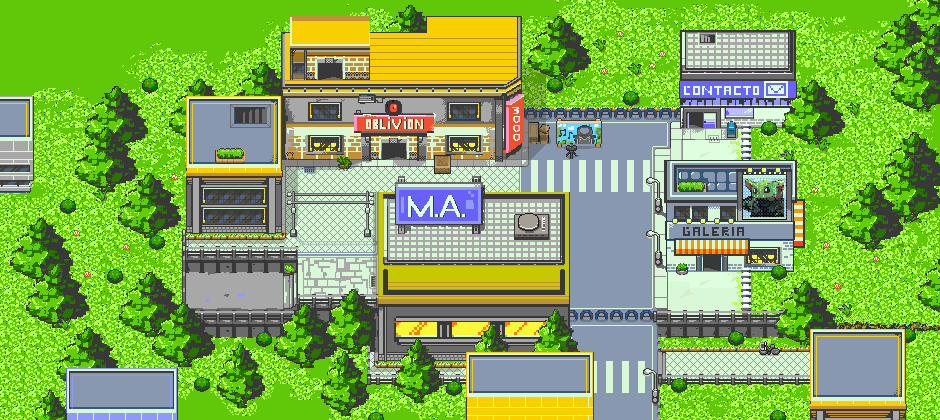
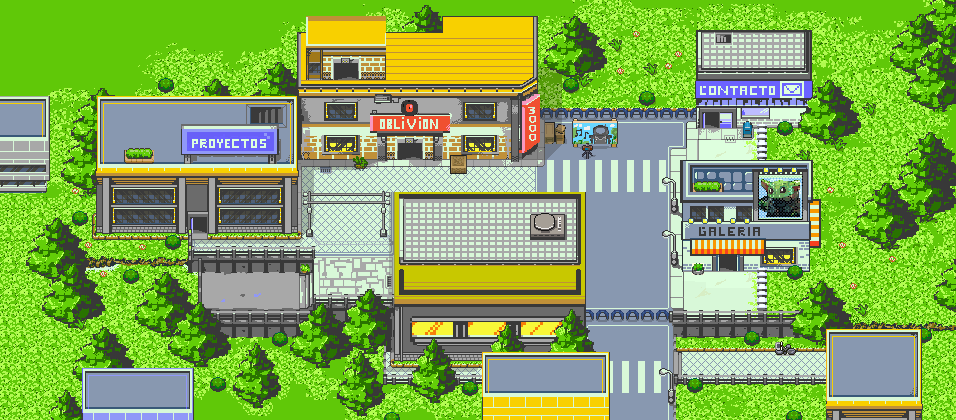
proyectos juego

diff --git a/js/OverworldMap.js b/js/OverworldMap.js
@@ -52,71 +52,71 @@ window.OverworldMaps = {
         upperSrc: "../img/maps/StreetUpper.png",
         gameObjects: {
             hero: new Person({
-                x: utils.withGrid(15),
+                x: utils.withGrid(16),
                 y: utils.withGrid(17),
                 isPlayerControlled: true,
                 src: "../img/characters/hero.png"
             })
         },
         doors: {
-            [utils.asGridCoord(24,9)]: "oblivion",
-            [utils.asGridCoord(43,7)]: "contacto",
-            [utils.asGridCoord(44,16)]: "galeria",
-            [utils.asGridCoord(15,17)]: "inicio",
-            [utils.asGridCoord(12,15)]: "proyectos",
+            [utils.asGridCoord(25,9)]: "oblivion",
+            [utils.asGridCoord(44,7)]: "contacto",
+            [utils.asGridCoord(45,16)]: "galeria",
+            [utils.asGridCoord(16,17)]: "inicio",
+            [utils.asGridCoord(12,14)]: "proyectos",
         },
         walls: {
-            [utils.asGridCoord(35,6)]: true,
             [utils.asGridCoord(36,6)]: true,
             [utils.asGridCoord(37,6)]: true,
             [utils.asGridCoord(38,6)]: true,
             [utils.asGridCoord(39,6)]: true,
             [utils.asGridCoord(40,6)]: true,
             [utils.asGridCoord(41,6)]: true,
-            [utils.asGridCoord(43,6)]: true,
+            [utils.asGridCoord(42,6)]: true,
+            [utils.asGridCoord(44,6)]: true,
 
-            [utils.asGridCoord(34,7)]: true,
-            [utils.asGridCoord(42,7)]: true,
-            [utils.asGridCoord(44,7)]: true,
+            [utils.asGridCoord(35,7)]: true,
+            [utils.asGridCoord(43,7)]: true,
+            [utils.asGridCoord(45,7)]: true,
 
-            [utils.asGridCoord(24,8)]: true,
-            [utils.asGridCoord(32,8)]: true,
+            [utils.asGridCoord(25,8)]: true,
             [utils.asGridCoord(33,8)]: true,
             [utils.asGridCoord(34,8)]: true,
-            [utils.asGridCoord(45,8)]: true,
+            [utils.asGridCoord(35,8)]: true,
+            [utils.asGridCoord(46,8)]: true,
 
-            [utils.asGridCoord(18,9)]: true,
             [utils.asGridCoord(19,9)]: true,
             [utils.asGridCoord(20,9)]: true,
             [utils.asGridCoord(21,9)]: true,
             [utils.asGridCoord(22,9)]: true,
             [utils.asGridCoord(23,9)]: true,
-            [utils.asGridCoord(25,9)]: true,
+            [utils.asGridCoord(24,9)]: true,
             [utils.asGridCoord(26,9)]: true,
-            [utils.asGridCoord(28,9)]: true,
+            [utils.asGridCoord(27,9)]: true,
             [utils.asGridCoord(29,9)]: true,
             [utils.asGridCoord(30,9)]: true,
             [utils.asGridCoord(31,9)]: true,
-            [utils.asGridCoord(35,9)]: true,
+            [utils.asGridCoord(32,9)]: true,
             [utils.asGridCoord(36,9)]: true,
             [utils.asGridCoord(37,9)]: true,
-            [utils.asGridCoord(46,9)]: true,
+            [utils.asGridCoord(38,9)]: true,
+            [utils.asGridCoord(47,9)]: true,
 
-            [utils.asGridCoord(17,10)]: true,
-            [utils.asGridCoord(27,10)]: true,
-            [utils.asGridCoord(46,10)]: true,
+            [utils.asGridCoord(18,10)]: true,
+            [utils.asGridCoord(28,10)]: true,
+            [utils.asGridCoord(47,10)]: true,
 
-            [utils.asGridCoord(17,11)]: true,
-            [utils.asGridCoord(46,11)]: true,
+            [utils.asGridCoord(18,11)]: true,
+            [utils.asGridCoord(47,11)]: true,
 
-            [utils.asGridCoord(17,12)]: true,
-            [utils.asGridCoord(42,12)]: true,
+            [utils.asGridCoord(18,12)]: true,
             [utils.asGridCoord(43,12)]: true,
             [utils.asGridCoord(44,12)]: true,
             [utils.asGridCoord(45,12)]: true,
+            [utils.asGridCoord(46,12)]: true,
 
-            [utils.asGridCoord(17,13)]: true,
-            [utils.asGridCoord(24,13)]: true,
+            [utils.asGridCoord(12,13)]: true,
+            [utils.asGridCoord(18,13)]: true,
             [utils.asGridCoord(25,13)]: true,
             [utils.asGridCoord(26,13)]: true,
             [utils.asGridCoord(27,13)]: true,
@@ -127,24 +127,26 @@ window.OverworldMaps = {
             [utils.asGridCoord(32,13)]: true,
             [utils.asGridCoord(33,13)]: true,
             [utils.asGridCoord(34,13)]: true,
-            [utils.asGridCoord(41,13)]: true,
+            [utils.asGridCoord(35,13)]: true,
+            [utils.asGridCoord(42,13)]: true,
 
-            [utils.asGridCoord(12,14)]: true,
+            [utils.asGridCoord(11,14)]: true,
             [utils.asGridCoord(13,14)]: true,
             [utils.asGridCoord(14,14)]: true,
             [utils.asGridCoord(15,14)]: true,
             [utils.asGridCoord(16,14)]: true,
             [utils.asGridCoord(17,14)]: true,
             [utils.asGridCoord(18,14)]: true,
-            [utils.asGridCoord(23,14)]: true,
-            [utils.asGridCoord(34,14)]: true,
-            [utils.asGridCoord(42,14)]: true,
+            [utils.asGridCoord(19,14)]: true,
+            [utils.asGridCoord(24,14)]: true,
+            [utils.asGridCoord(35,14)]: true,
+            [utils.asGridCoord(43,14)]: true,
 
             [utils.asGridCoord(11,15)]: true,
-            [utils.asGridCoord(24,15)]: true,
-            [utils.asGridCoord(34,15)]: true,
-            [utils.asGridCoord(42,15)]: true,
-            [utils.asGridCoord(44,15)]: true,
+            [utils.asGridCoord(25,15)]: true,
+            [utils.asGridCoord(35,15)]: true,
+            [utils.asGridCoord(43,15)]: true,
+            [utils.asGridCoord(45,15)]: true,
 
             [utils.asGridCoord(12,16)]: true,
             [utils.asGridCoord(13,16)]: true,
@@ -153,40 +155,40 @@ window.OverworldMaps = {
             [utils.asGridCoord(16,16)]: true,
             [utils.asGridCoord(17,16)]: true,
             [utils.asGridCoord(18,16)]: true,
-            [utils.asGridCoord(24,16)]: true,
-            [utils.asGridCoord(34,16)]: true,
-            [utils.asGridCoord(41,16)]: true,
+            [utils.asGridCoord(19,16)]: true,
+            [utils.asGridCoord(25,16)]: true,
+            [utils.asGridCoord(35,16)]: true,
             [utils.asGridCoord(42,16)]: true,
             [utils.asGridCoord(43,16)]: true,
-            [utils.asGridCoord(45,16)]: true,
+            [utils.asGridCoord(44,16)]: true,
+            [utils.asGridCoord(46,16)]: true,
 
-            [utils.asGridCoord(11,17)]: true,
-            [utils.asGridCoord(24,17)]: true,
-            [utils.asGridCoord(34,17)]: true,
-            [utils.asGridCoord(46,17)]: true,
+            [utils.asGridCoord(12,17)]: true,
+            [utils.asGridCoord(25,17)]: true,
+            [utils.asGridCoord(35,17)]: true,
+            [utils.asGridCoord(47,17)]: true,
 
-            [utils.asGridCoord(11,18)]: true,
-            [utils.asGridCoord(24,18)]: true,
-            [utils.asGridCoord(34,18)]: true,
-            [utils.asGridCoord(46,18)]: true,
+            [utils.asGridCoord(12,18)]: true,
+            [utils.asGridCoord(25,18)]: true,
+            [utils.asGridCoord(35,18)]: true,
+            [utils.asGridCoord(47,18)]: true,
 
-            [utils.asGridCoord(11,19)]: true,
-            [utils.asGridCoord(18,19)]: true,
+            [utils.asGridCoord(12,19)]: true,
             [utils.asGridCoord(19,19)]: true,
             [utils.asGridCoord(20,19)]: true,
             [utils.asGridCoord(21,19)]: true,
             [utils.asGridCoord(22,19)]: true,
             [utils.asGridCoord(23,19)]: true,
-            [utils.asGridCoord(34,19)]: true,
-            [utils.asGridCoord(46,19)]: true,
+            [utils.asGridCoord(24,19)]: true,
+            [utils.asGridCoord(35,19)]: true,
+            [utils.asGridCoord(47,19)]: true,
 
-            [utils.asGridCoord(12,20)]: true,
             [utils.asGridCoord(13,20)]: true,
             [utils.asGridCoord(14,20)]: true,
             [utils.asGridCoord(15,20)]: true,
             [utils.asGridCoord(16,20)]: true,
             [utils.asGridCoord(17,20)]: true,
-            [utils.asGridCoord(35,20)]: true,
+            [utils.asGridCoord(18,20)]: true,
             [utils.asGridCoord(36,20)]: true,
             [utils.asGridCoord(37,20)]: true,
             [utils.asGridCoord(38,20)]: true,
@@ -197,6 +199,7 @@ window.OverworldMaps = {
             [utils.asGridCoord(43,20)]: true,
             [utils.asGridCoord(44,20)]: true,
             [utils.asGridCoord(45,20)]: true,
+            [utils.asGridCoord(46,20)]: true,
 
         }
     }

diff --git a/js/Overworld.js b/js/Overworld.js
@@ -67,15 +67,15 @@ class Overworld {
         let hero = this.map.gameObjects["hero"];
         if(this.currentDoor !== name){
             switch(name){
-                case 'oblivion' : hero.changePosition(24,9);
+                case 'oblivion' : hero.changePosition(25,9);
                 break;
-                case 'contacto' : hero.changePosition(43,7);
+                case 'contacto' : hero.changePosition(44,7);
                 break;
-                case 'galeria'  : hero.changePosition(44,16);
+                case 'galeria'  : hero.changePosition(45,16);
                 break;
-                case 'proyectos'  : hero.changePosition(12,15);
+                case 'proyectos'  : hero.changePosition(12,14);
                 break;
-                default : hero.changePosition(15,17);
+                default : hero.changePosition(16,17);
             }
         }
     }

diff --git a/index.html b/index.html
@@ -21,7 +21,7 @@
         </br> Mi nombre es <b>Marcos Agüero</b>.</h1>
 
         <h2>Soy estudiante avanzado de ingeniería informática en la UNMDP y me desempeño como ilustrador freelance.
-            Con el objetivo de capacitarme al máximo sobre el front end y el desarrollo de videojuegos, áreas que realmente 
+            Con el objetivo de capacitarme al máximo sobre el front end y desarrollo de videojuegos, áreas que realmente 
             me apasionan y donde puedo integrar mis conocimientos tanto de arte como de programación.
         </h2>
 
